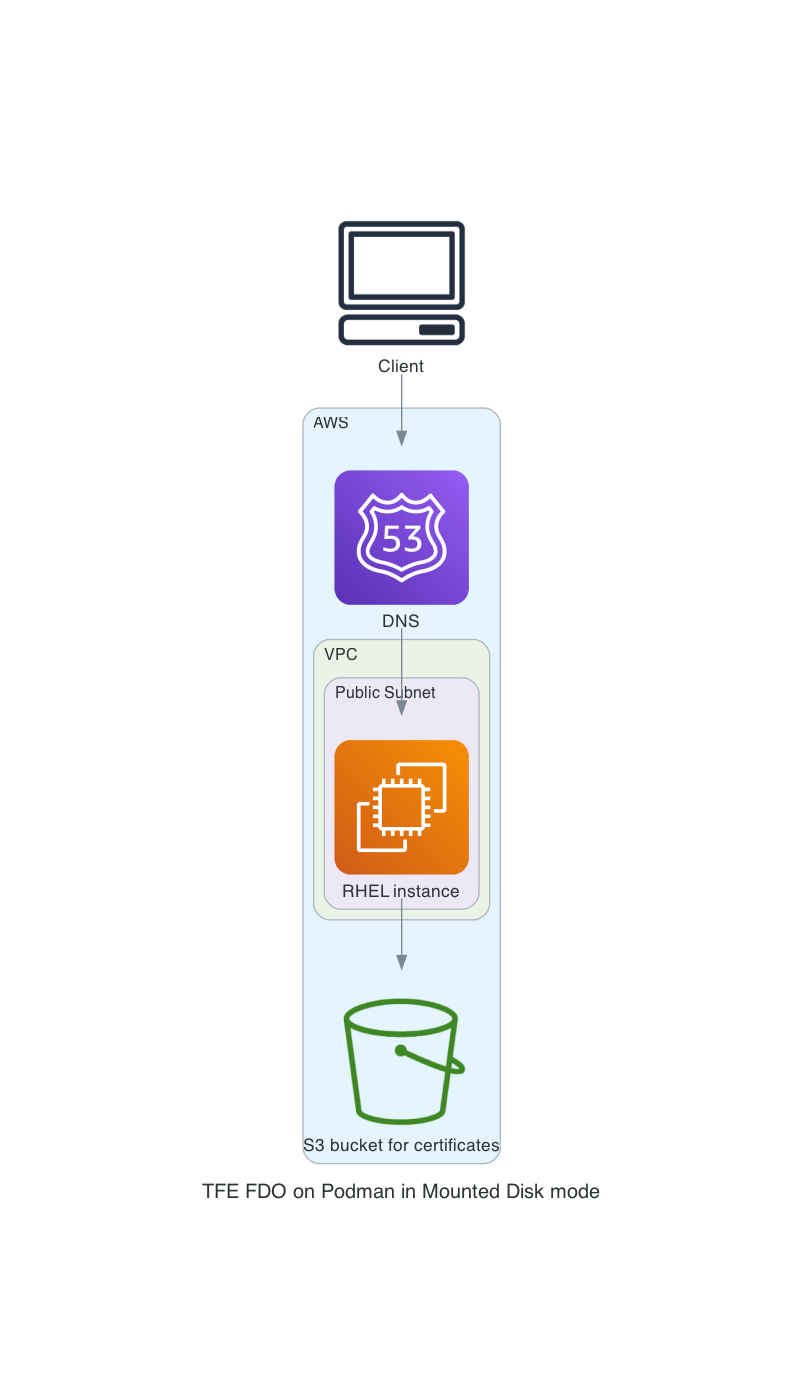
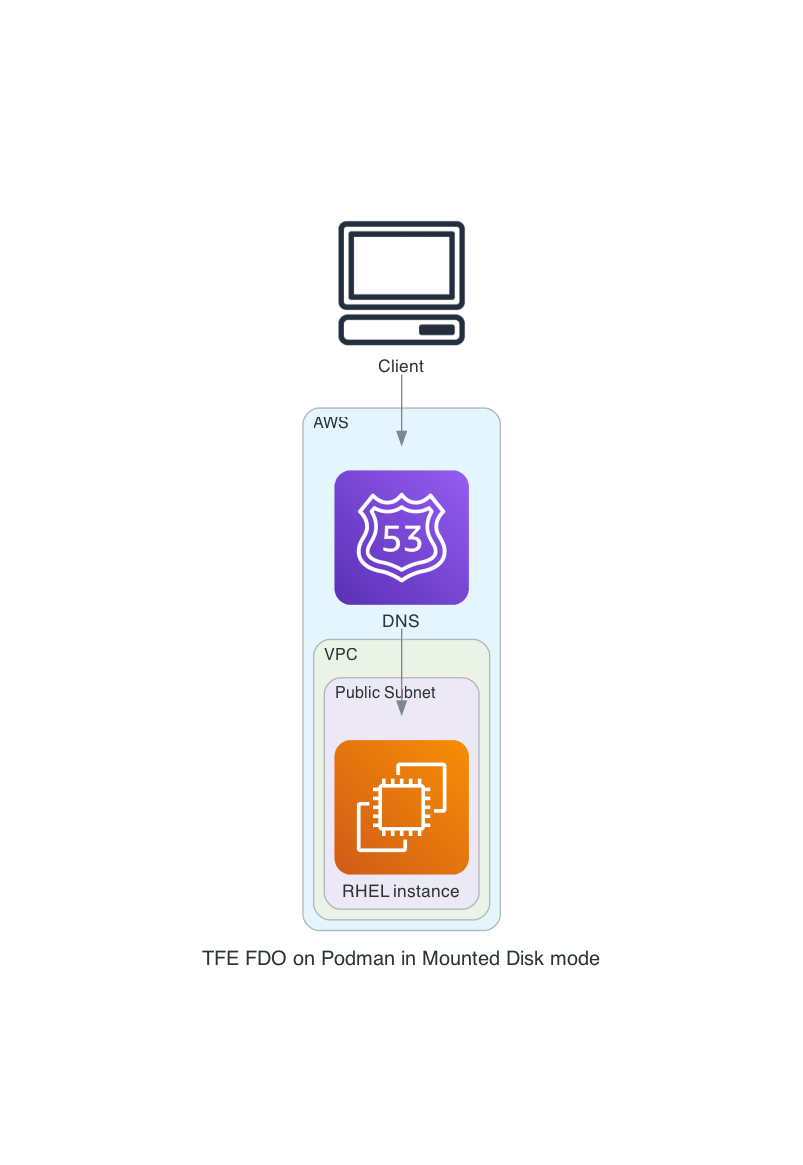
Add files via upload

Changed region(s): [[0.2491, 0.1545, 0.7472, 0.8652]]

diff --git a/diagram/tfe_fdo_on_podman_in_mounted_disk_mode.py b/diagram/tfe_fdo_on_podman_in_mounted_disk_mode.py
@@ -4,8 +4,6 @@ from diagrams import Cluster, Diagram
 from diagrams.aws.general import Client
 from diagrams.aws.network import Route53
 from diagrams.aws.compute import EC2
-from diagrams.aws.storage import SimpleStorageServiceS3Bucket
-
 
 with Diagram("TFE FDO on Podman in Mounted Disk mode", show=False, direction="TB"):
     
@@ -17,8 +15,5 @@ with Diagram("TFE FDO on Podman in Mounted Disk mode", show=False, direction="TB
             with Cluster("Public Subnet"):
                 tfe_instance = EC2("RHEL instance")
 
-        s3bucket = SimpleStorageServiceS3Bucket("S3 bucket for certificates")
-
     client >> dns
     dns >> tfe_instance
-    tfe_instance >> s3bucket
